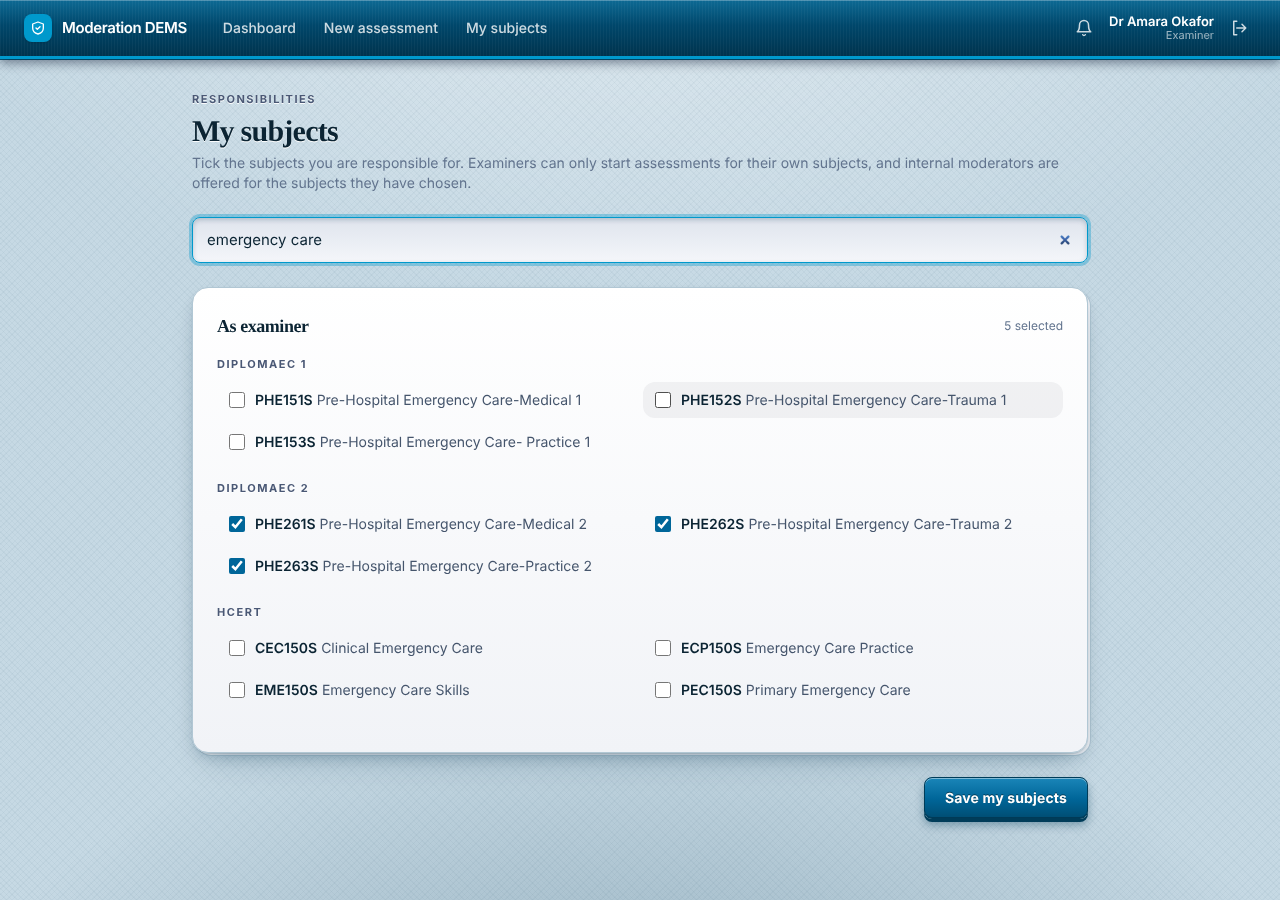
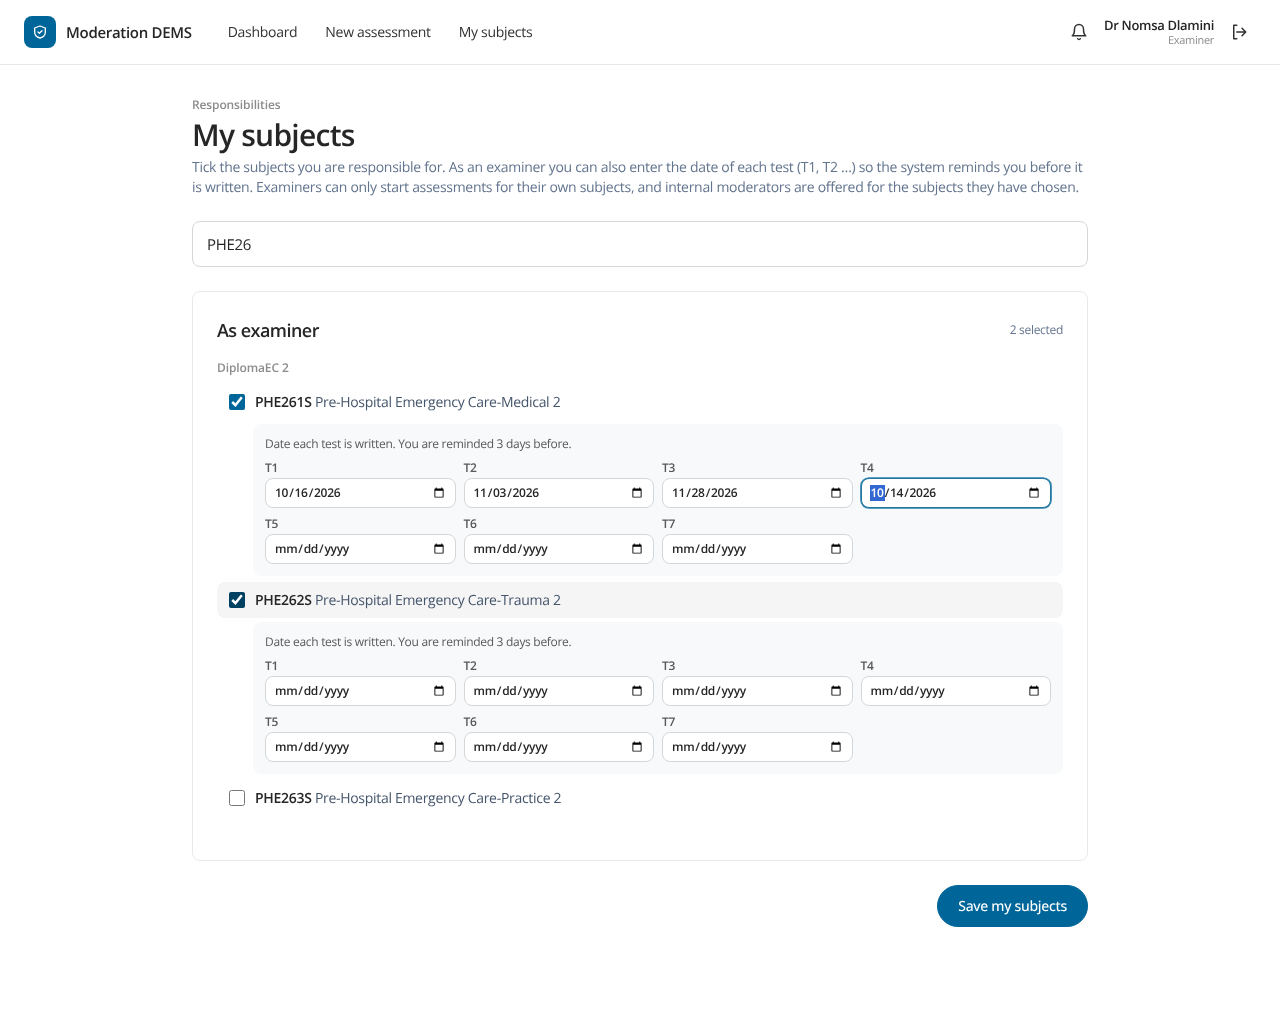
Test calendar with 3-day reminders; AI paper-check plan document
Examiners enter the date of each test (T1-T7) per subject on My subjects,
get daily in-app reminders from 3 days before, see upcoming assessments on
the dashboard, and the date pre-fills the new-assessment form.
Adds docs/ai-paper-analysis.md (plan for a later stage).

Claude-Session: https://claude.ai/code/session_01KMAi7XbmWaGJHSxj4HaG4y

diff --git a/resources/views/assessments/create.blade.php b/resources/views/assessments/create.blade.php
@@ -5,7 +5,10 @@
   @if ($subjects->isEmpty())<x-notice tone="warn" title="Choose your subjects first">You can only start assessments for subjects you are responsible for. <a href="{{ route('my-subjects') }}" class="font-semibold underline">Pick them in My subjects</a>.</x-notice>@endif
   @if ($errors->any())<x-notice tone="error">{{ $errors->first() }}</x-notice>@endif
   @php $mods = $internals->map(fn ($u) => ['id' => $u->id, 'name' => $u->name, 'subjects' => $u->subjects->where('pivot.role', 'INTERNAL_MODERATOR')->pluck('id')->values()])->values(); @endphp
-  <div x-data="{ subject: @js((string) old('subject_id')), mods: @js($mods), date: @js(old('assessment_date', '')), internal: @js((string) old('internal_moderator_id')),
+  <div x-data="{ plans: @js($plans), number: @js((string) old('number', request('number'))), planned: false,
+    init() { this.$watch('subject', () => this.fill()); this.$watch('number', () => this.fill()); },
+    fill() { const p = (this.plans[this.subject] || {})[this.number]; if (p && (!this.date || this.planned)) { this.date = p; this.planned = true; } },
+    subject: @js((string) old('subject_id', request('subject'))), mods: @js($mods), date: @js(old('assessment_date', '')), internal: @js((string) old('internal_moderator_id')),
     get options() { const m = this.mods.filter(u => u.subjects.includes(Number(this.subject))); return m.length ? m : this.mods; },
     get registered() { return this.mods.some(u => u.subjects.includes(Number(this.subject))); },
     fmt(d) { return d.toLocaleDateString('en-ZA', { day: 'numeric', month: 'short', year: 'numeric' }); },
@@ -13,13 +16,13 @@
   <div class="grid gap-5 sm:grid-cols-2">
     <div><label class="label" for="subject">Subject</label>
       <select id="subject" name="subject_id" required class="field" x-model="subject" @change="internal = ''"><option value="">Select…</option>@foreach ($subjects as $s)<option value="{{ $s->id }}">{{ $s->code }} — {{ $s->name }}</option>@endforeach</select></div>
-    <div><label class="label" for="number">Assessment number</label><select id="number" name="number" required class="field"><option value="">Select…</option>@foreach (config('dems.assessment_numbers') as $n)<option value="{{ $n }}" @selected(old('number') === $n)>{{ $n }}</option>@endforeach</select>
+    <div><label class="label" for="number">Assessment number</label><select id="number" name="number" required class="field" x-model="number"><option value="">Select…</option>@foreach (config('dems.assessment_numbers') as $n)<option value="{{ $n }}">{{ $n }}</option>@endforeach</select>
       <p class="mt-1 text-xs text-slate-400">Matches the T column in the marks sheet.</p></div>
   </div>
   <div class="grid gap-5 sm:grid-cols-2"><div><label class="label" for="year_level">Year level</label>
     <select id="year_level" name="year_level" required class="field"><option value="">Select…</option>@foreach (config('moderation_form.levels') as $l)<option value="{{ $l }}" @selected(old('year_level') === $l)>{{ $l }}</option>@endforeach</select></div></div>
-  <div><label class="label" for="adate">Assessment date <span class="normal-case tracking-normal text-slate-400">(optional, sets the deadlines)</span></label>
-    <input id="adate" name="assessment_date" type="date" class="field max-w-[220px]" x-model="date">
+  <div><label class="label" for="adate">Assessment date <span class="normal-case tracking-normal text-slate-400">(optional, sets the deadlines; filled in from your test calendar)</span></label>
+    <input id="adate" name="assessment_date" type="date" class="field max-w-[220px]" x-model="date" @input="planned = false">
     <p class="mt-1.5 text-xs text-slate-500 dark:text-zinc-400" x-show="date" x-cloak>Pre-moderation must be finished by <b x-text="shift(-{{ (int) config('dems.pre_moderation_days') }})"></b>; post-moderation by <b x-text="shift({{ (int) config('dems.post_moderation_days') }})"></b>.</p></div>
   <div><label class="label" for="internal">Internal moderator</label>
     <select id="internal" name="internal_moderator_id" required class="field" x-model="internal"><option value="">Select…</option><template x-for="u in options" :key="u.id"><option :value="u.id" x-text="u.name"></option></template></select>

diff --git a/resources/views/my-subjects.blade.php b/resources/views/my-subjects.blade.php
@@ -1,7 +1,7 @@
 <x-app-layout title="My subjects">
 <div class="mx-auto max-w-4xl space-y-6" x-data="{ q: '' }">
   <div><p class="kicker">Responsibilities</p><h1 class="mt-1 text-3xl font-semibold tracking-tight">My subjects</h1>
-    <p class="mt-1 text-sm text-slate-500 dark:text-zinc-400">Tick the subjects you are responsible for. Examiners can only start assessments for their own subjects, and internal moderators are offered for the subjects they have chosen.</p></div>
+    <p class="mt-1 text-sm text-slate-500 dark:text-zinc-400">Tick the subjects you are responsible for. As an examiner you can also enter the date of each test (T1, T2 …) so the system reminds you before it is written. Examiners can only start assessments for their own subjects, and internal moderators are offered for the subjects they have chosen.</p></div>
   @if (session('status'))<x-notice tone="success">{{ session('status') }}</x-notice>@endif
   @if (! $roles)<x-notice tone="warn">Only examiners and internal moderators choose subjects.</x-notice>@else
   <form method="POST" action="{{ route('my-subjects.update') }}" class="space-y-6">@csrf @method('PUT')
@@ -15,11 +15,24 @@
               <p class="kicker mb-2">{{ $qual }}</p>
               <div class="grid gap-1.5 sm:grid-cols-2">
                 @foreach ($list as $s)
-                  <label class="flex cursor-pointer items-start gap-2.5 rounded-xl px-3 py-2 text-sm hover:bg-slate-900/5 dark:hover:bg-white/10"
+                  @php $isEx = $role === \App\Enums\Role::Examiner; $on = in_array($s->id, $chosen[$role->value] ?? [], true); @endphp
+                  <div x-data="{ on: {{ $on ? 'true' : 'false' }} }" :class="on && {{ $isEx ? 'true' : 'false' }} ? 'sm:col-span-2' : ''"
                     x-show="!q || {{ \Illuminate\Support\Js::from(mb_strtolower($s->code.' '.$s->name.' '.$qual)) }}.includes(q.toLowerCase())">
-                    <input type="checkbox" name="subjects[{{ $role->value }}][]" value="{{ $s->id }}" class="mt-0.5 h-4 w-4 rounded accent-[#006699]" @checked(in_array($s->id, $chosen[$role->value] ?? [], true))>
-                    <span><span class="font-semibold">{{ $s->code }}</span> <span class="text-slate-600 dark:text-zinc-300">{{ $s->name }}</span></span>
-                  </label>
+                    <label class="flex cursor-pointer items-start gap-2.5 rounded-xl px-3 py-2 text-sm hover:bg-[var(--fog)]">
+                      <input type="checkbox" name="subjects[{{ $role->value }}][]" value="{{ $s->id }}" class="mt-0.5 h-4 w-4 rounded accent-[#006699]" @checked($on) @change="on = $event.target.checked">
+                      <span><span class="font-semibold">{{ $s->code }}</span> <span class="text-slate-600 dark:text-zinc-300">{{ $s->name }}</span></span>
+                    </label>
+                    @if ($isEx)
+                      <div x-show="on" x-cloak class="ml-9 mt-1 rounded-lg bg-[var(--canvas-soft)] p-3">
+                        <p class="mb-2 text-xs text-[var(--ink-2)]">Date each test is written. You are reminded {{ (int) config('dems.assessment_reminder_days') }} days before.</p>
+                        <div class="grid grid-cols-2 gap-2 sm:grid-cols-4">
+                          @foreach (config('dems.assessment_numbers') as $n)
+                            <label class="text-xs font-semibold text-[var(--ink-2)]">{{ $n }}<input type="date" name="plans[{{ $s->id }}][{{ $n }}]" value="{{ $plans[$s->id][$n] ?? '' }}" class="field mt-0.5 !px-2 !py-1.5 text-xs"></label>
+                          @endforeach
+                        </div>
+                      </div>
+                    @endif
+                  </div>
                 @endforeach
               </div>
             </div>

diff --git a/app/Http/Controllers/MySubjectsController.php b/app/Http/Controllers/MySubjectsController.php
@@ -22,6 +22,7 @@ class MySubjectsController extends Controller
         return view('my-subjects', [
             'roles' => $roles,
             'chosen' => $chosen,
+            'plans' => \App\Models\AssessmentPlan::where('user_id', $user->id)->get()->groupBy('subject_id')->map(fn ($g) => $g->mapWithKeys(fn ($p) => [$p->number => $p->assessment_date->toDateString()])->all())->all(),
             'subjects' => Subject::orderBy('qualification')->orderBy('code')->get()->groupBy(fn ($s) => $s->qualification ?: 'Other'),
         ]);
     }
@@ -29,7 +30,8 @@ class MySubjectsController extends Controller
     public function update(Request $request, Audit $audit)
     {
         $user = $request->user();
-        $d = $request->validate(['subjects' => ['nullable', 'array'], 'subjects.*' => ['array'], 'subjects.*.*' => ['integer', 'exists:subjects,id']]);
+        $d = $request->validate(['subjects' => ['nullable', 'array'], 'subjects.*' => ['array'], 'subjects.*.*' => ['integer', 'exists:subjects,id'],
+            'plans' => ['nullable', 'array'], 'plans.*' => ['array'], 'plans.*.*' => ['nullable', 'date']]);
         DB::transaction(function () use ($user, $d) {
             foreach (self::ROLES as $role) {
                 if (! $user->hasRole($role)) {
@@ -41,8 +43,23 @@ class MySubjectsController extends Controller
                 }
             }
         });
+        // the examiner's test calendar: only for subjects they are an examiner of, only the configured tests, only real dates
+        if ($user->hasRole(Role::Examiner)) {
+            $mine = DB::table('subject_user')->where('user_id', $user->id)->where('role', Role::Examiner->value)->pluck('subject_id')->all();
+            DB::transaction(function () use ($user, $d, $mine) {
+                \App\Models\AssessmentPlan::where('user_id', $user->id)->delete();
+                foreach ($d['plans'] ?? [] as $sid => $tests) {
+                    foreach ($tests as $number => $date) {
+                        if ($date && in_array((int) $sid, $mine, true) && in_array($number, config('dems.assessment_numbers'), true)) {
+                            \App\Models\AssessmentPlan::create(['user_id' => $user->id, 'subject_id' => (int) $sid, 'number' => $number, 'assessment_date' => $date]);
+                        }
+                    }
+                }
+            });
+            $audit->log('ASSESSMENTS_PLANNED', null, $user->id, ['count' => \App\Models\AssessmentPlan::where('user_id', $user->id)->count()], $request->ip());
+        }
         $audit->log('SUBJECTS_CHOSEN', null, $user->id, ['count' => DB::table('subject_user')->where('user_id', $user->id)->count()], $request->ip());
 
-        return back()->with('status', 'Your subjects are saved.');
+        return back()->with('status', 'Your subjects and assessment dates are saved.');
     }
 }

diff --git a/tests/Feature/LifecycleTest.php b/tests/Feature/LifecycleTest.php
@@ -539,6 +539,32 @@ class LifecycleTest extends TestCase
         $this->assertNotNull(Subject::find($sample->id));
     }
 
+    public function test_examiner_plans_test_dates_and_is_reminded_three_days_before(): void
+    {
+        $other = Subject::create(['code' => 'OTH101', 'name' => 'Not mine', 'hod_id' => $this->hod->id]);
+        $d = fn (int $n) => now('UTC')->addDays($n)->toDateString();
+        $this->as($this->examiner)->put('/my-subjects', [
+            'subjects' => ['EXAMINER' => [$this->subject->id]],
+            'plans' => [$this->subject->id => ['T1' => $d(10), 'T2' => $d(3), 'T3' => $d(1), 'T9' => $d(2), 'T4' => ''], $other->id => ['T1' => $d(2)]],
+        ])->assertRedirect();
+        // only real tests of subjects they examine, with a date
+        $this->assertSame(['T1', 'T2', 'T3'], \App\Models\AssessmentPlan::where('user_id', $this->examiner->id)->orderBy('number')->pluck('number')->all());
+        // T2 (3 days) and T3 (tomorrow) are inside the window; T1 (10 days) is not
+        $this->assertSame(2, app(\App\Services\DeadlineReminders::class)->run());
+        $msgs = \App\Models\Notification::where('user_id', $this->examiner->id)->pluck('message')->implode(' | ');
+        $this->assertStringContainsString('CSC101 T2 is written in 3 days', $msgs);
+        $this->assertStringContainsString('CSC101 T3 is written tomorrow', $msgs);
+        $this->assertStringContainsString('not been started', $msgs);
+        $this->assertStringNotContainsString('T1', $msgs);
+        $this->assertSame(0, app(\App\Services\DeadlineReminders::class)->run()); // once a day
+        // the planned date flows into the assessment and the dashboard lists what is coming
+        $this->as($this->examiner)->get('/assessments/create')->assertOk();
+        $this->as($this->examiner)->post('/assessments', ['year_level' => 'Y1', 'subject_id' => $this->subject->id, 'number' => 'T2', 'internal_moderator_id' => $this->internal->id])->assertRedirect();
+        $this->assertSame($d(3), \Carbon\Carbon::parse(Assessment::firstOrFail()->assessment_date)->toDateString());
+        $this->as($this->examiner)->get('/')->assertOk()->assertSee('Upcoming assessments')->assertSee('CSC101 · T1')->assertSee('Start in the system');
+        $this->as($this->external)->put('/my-subjects', [])->assertForbidden();
+    }
+
     public function test_login_and_pages_render_for_every_stage(): void
     {
         $this->get('/login')->assertOk()->assertSee('Welcome back');

diff --git a/app/Services/DeadlineReminders.php b/app/Services/DeadlineReminders.php
@@ -4,6 +4,7 @@ namespace App\Services;
 
 use App\Enums\AssessmentStatus as S;
 use App\Models\Assessment;
+use App\Models\AssessmentPlan;
 use App\Models\Notification;
 
 /** In-app reminders when a pre- or post-moderation deadline is close or missed. At most one per person and record per day. */
@@ -27,6 +28,29 @@ class DeadlineReminders
                     $this->notifier->inApp([$id], $a, $msg);
                     $sent++;
                 }
+            }
+        });
+
+        return $sent + $this->plannedAssessments();
+    }
+
+    /** Examiners are reminded of every test they planned that is written within the next few days (daily until the day itself). */
+    private function plannedAssessments(): int
+    {
+        $sent = 0;
+        $today = now('UTC')->startOfDay();
+        $until = $today->copy()->addDays((int) config('dems.assessment_reminder_days'));
+        AssessmentPlan::with(['subject', 'user'])->whereDate('assessment_date', '>=', $today->toDateString())->whereDate('assessment_date', '<=', $until->toDateString())->get()->each(function (AssessmentPlan $p) use (&$sent, $today) {
+            if (! $p->user?->active) {
+                return;
+            }
+            $days = (int) $today->diffInDays($p->assessment_date->copy()->startOfDay(), false);
+            $when = $days === 0 ? 'today' : ($days === 1 ? 'tomorrow' : "in {$days} days");
+            $msg = "Reminder: {$p->subject->code} {$p->number} is written {$when} ({$p->assessment_date->format('j M Y')}).".($p->started() ? '' : ' It has not been started in the system yet.');
+            $already = Notification::where('user_id', $p->user_id)->where('message', 'like', "Reminder: {$p->subject->code} {$p->number} is written%")->where('created_at', '>=', $today)->exists();
+            if (! $already) {
+                Notification::create(['user_id' => $p->user_id, 'message' => $msg]);
+                $sent++;
             }
         });
 

diff --git a/resources/views/dashboard.blade.php b/resources/views/dashboard.blade.php
@@ -20,6 +20,16 @@ $tabs = ['ALL' => ['All', $items->count()], 'ACTION' => ['Needs my action', $act
     </div>
   </div>
 
+  @if ($upcoming->isNotEmpty())
+    <section class="card p-6"><p class="kicker mb-3">Upcoming assessments · next 45 days</p>
+      <ul class="divide-y divide-[var(--divider)] text-sm">@foreach ($upcoming as $p)
+        @php $days = (int) now('UTC')->startOfDay()->diffInDays($p->assessment_date->copy()->startOfDay(), false); $soon = $days <= (int) config('dems.assessment_reminder_days'); $started = $p->started(); @endphp
+        <li class="flex flex-wrap items-center justify-between gap-3 py-2.5"><span><span class="font-semibold">{{ $p->subject->code }} · {{ $p->number }}</span> <span class="text-[var(--ink-2)]">{{ $p->subject->name }}</span></span>
+          <span class="flex items-center gap-3"><span class="rounded-full px-2.5 py-1 text-[11px] font-semibold {{ $soon ? 'bg-amber-500/10 text-amber-700 dark:text-amber-300' : 'bg-[var(--fog)] text-[var(--ink-2)]' }}">{{ $p->assessment_date->format('j M Y') }} · {{ $days === 0 ? 'today' : ($days === 1 ? 'tomorrow' : 'in '.$days.' days') }}</span>
+            @if ($started)<span class="text-xs text-emerald-600">Started</span>@else<a href="{{ route('assessments.create', ['subject' => $p->subject_id, 'number' => $p->number]) }}" class="text-xs font-semibold text-accent dark:text-accent-dark">Start in the system →</a>@endif</span></li>
+      @endforeach</ul></section>
+  @endif
+
   <div class="grid grid-cols-2 gap-3 lg:grid-cols-4">
     @foreach ($headline as $s)
       @php $t = $s->tone(); @endphp

diff --git a/database/migrations/2026_10_14_000010_assessment_plans.php b/database/migrations/2026_10_14_000010_assessment_plans.php
@@ -1,0 +1,32 @@
+<?php
+
+use Illuminate\Database\Migrations\Migration;
+use Illuminate\Database\Schema\Blueprint;
+use Illuminate\Support\Facades\DB;
+use Illuminate\Support\Facades\Schema;
+
+return new class extends Migration
+{
+    public function up(): void
+    {
+        // An examiner's calendar: which test (T1…) of which subject is written when. Drives the reminders.
+        Schema::create('assessment_plans', function (Blueprint $t) {
+            $t->id();
+            $t->foreignId('user_id')->constrained()->cascadeOnDelete();
+            $t->foreignId('subject_id')->constrained()->cascadeOnDelete();
+            $t->string('number', 8);
+            $t->date('assessment_date');
+            $t->timestamps();
+            $t->unique(['user_id', 'subject_id', 'number']);
+            $t->index('assessment_date');
+        });
+        if (DB::getDriverName() === 'pgsql') {
+            DB::statement('ALTER TABLE "assessment_plans" ENABLE ROW LEVEL SECURITY');
+        }
+    }
+
+    public function down(): void
+    {
+        Schema::dropIfExists('assessment_plans');
+    }
+};

diff --git a/config/dems.php b/config/dems.php
@@ -23,7 +23,8 @@ return [
     // Moderation windows around the assessment date.
     'pre_moderation_days' => 14,   // pre-moderation must be finished this many days BEFORE the assessment
     'post_moderation_days' => 14,  // post-moderation must be finished this many days AFTER it
-    'deadline_warn_days' => 3,     // reminders start this many days before a due date
+    'deadline_warn_days' => 3,
+    'assessment_reminder_days' => 3, // examiners are reminded of a planned assessment from this many days before it     // reminders start this many days before a due date
 
     'gates' => [
         ['key' => 'setup', 'title' => 'Pre-Assessment', 'sub' => 'Examiner · Section 1'],
@@ -42,6 +43,7 @@ return [
         'USER_APPROVED' => 'Registration approved',
         'USER_REJECTED' => 'Registration rejected',
         'SUBJECTS_IMPORTED' => 'Subject list imported',
+        'ASSESSMENTS_PLANNED' => 'Assessment dates planned',
         'SUBJECTS_CHOSEN' => 'Subjects chosen',
         'USER_ROLES_CHANGED' => 'User roles changed',
         'DOCUMENT_COMMENTED' => 'Comment added to a document',

diff --git a/app/Http/Controllers/AssessmentController.php b/app/Http/Controllers/AssessmentController.php
@@ -14,6 +14,7 @@ class AssessmentController extends Controller
     public function create(Request $request)
     {
         return view('assessments.create', [
+            'plans' => \App\Models\AssessmentPlan::where('user_id', $request->user()->id)->get()->groupBy('subject_id')->map(fn ($g) => $g->mapWithKeys(fn ($p) => [$p->number => $p->assessment_date->toDateString()])->all())->all(),
             'subjects' => $request->user()->subjects()->wherePivot('role', Role::Examiner->value)->orderBy('code')->get(),
             'internals' => User::withRole(Role::InternalModerator)->where('active', true)->where('id', '!=', $request->user()->id)->with('subjects')->orderBy('name')->get(),
             'externals' => User::withRole(Role::ExternalModerator)->where('active', true)->orderBy('name')->get(),

diff --git a/app/Models/AssessmentPlan.php b/app/Models/AssessmentPlan.php
@@ -1,0 +1,32 @@
+<?php
+
+namespace App\Models;
+
+use Illuminate\Database\Eloquent\Model;
+use Illuminate\Database\Eloquent\Relations\BelongsTo;
+
+class AssessmentPlan extends Model
+{
+    protected $guarded = [];
+
+    protected function casts(): array
+    {
+        return ['assessment_date' => 'date'];
+    }
+
+    public function subject(): BelongsTo
+    {
+        return $this->belongsTo(Subject::class);
+    }
+
+    public function user(): BelongsTo
+    {
+        return $this->belongsTo(User::class);
+    }
+
+    /** Has the examiner already started this test in the system? */
+    public function started(): bool
+    {
+        return Assessment::where('subject_id', $this->subject_id)->where('examiner_id', $this->user_id)->where('number', $this->number)->exists();
+    }
+}

diff --git a/app/Services/Workflow.php b/app/Services/Workflow.php
@@ -55,6 +55,9 @@ class Workflow
         if (! $user->isResponsibleFor($subject, Role::Examiner)) {
             throw new WorkflowException("Add {$subject->code} to My subjects first — you can only start assessments for subjects you are responsible for.");
         }
+        if (empty($in['assessment_date'])) { // fall back to the date in the examiner's own test calendar
+            $in['assessment_date'] = \App\Models\AssessmentPlan::where('user_id', $user->id)->where('subject_id', $subject->id)->where('number', $in['number'] ?? '')->first()?->assessment_date?->toDateString();
+        }
         if (! empty($in['assessment_date']) && ! strtotime((string) $in['assessment_date'])) {
             throw new WorkflowException('Enter a valid assessment date.');
         }

diff --git a/app/Http/Controllers/DashboardController.php b/app/Http/Controllers/DashboardController.php
@@ -21,6 +21,9 @@ class DashboardController extends Controller
         $items = Assessment::with(['subject', 'examiner', 'internalModerator'])
             ->visibleTo($user)->orderByDesc('updated_at')->get();
 
-        return view('dashboard', ['items' => $items, 'user' => $user]);
+        $upcoming = \App\Models\AssessmentPlan::with('subject')->where('user_id', $user->id)
+            ->whereDate('assessment_date', '>=', now('UTC')->toDateString())->whereDate('assessment_date', '<=', now('UTC')->addDays(45)->toDateString())->orderBy('assessment_date')->get();
+
+        return view('dashboard', ['items' => $items, 'user' => $user, 'upcoming' => $upcoming]);
     }
 }
